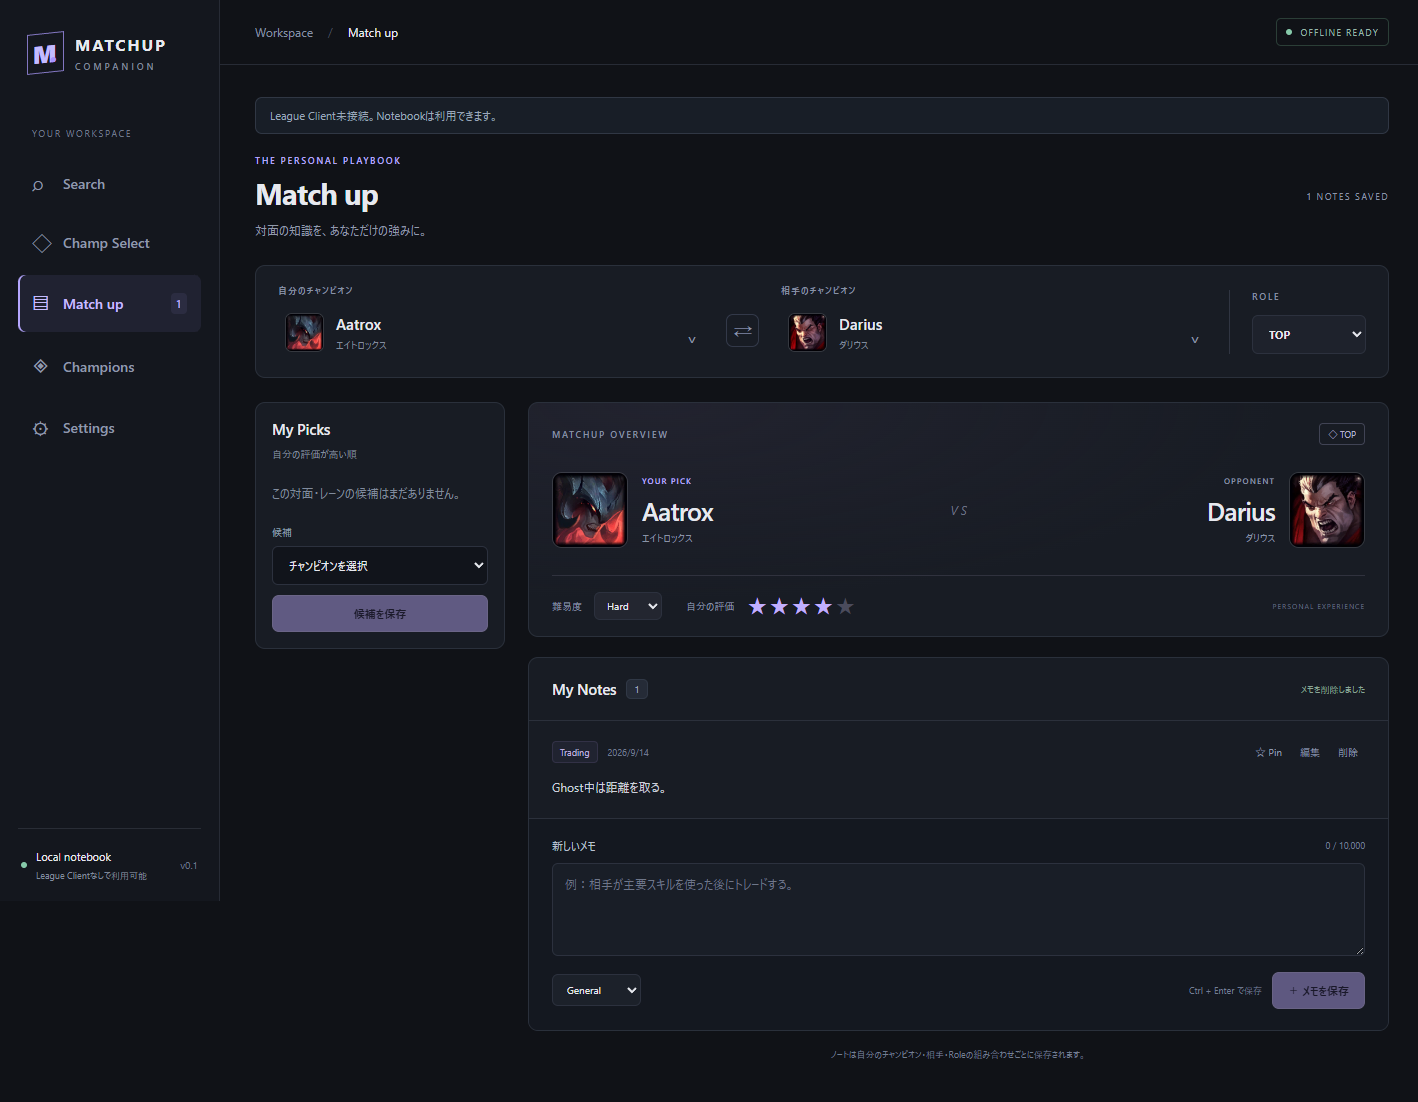
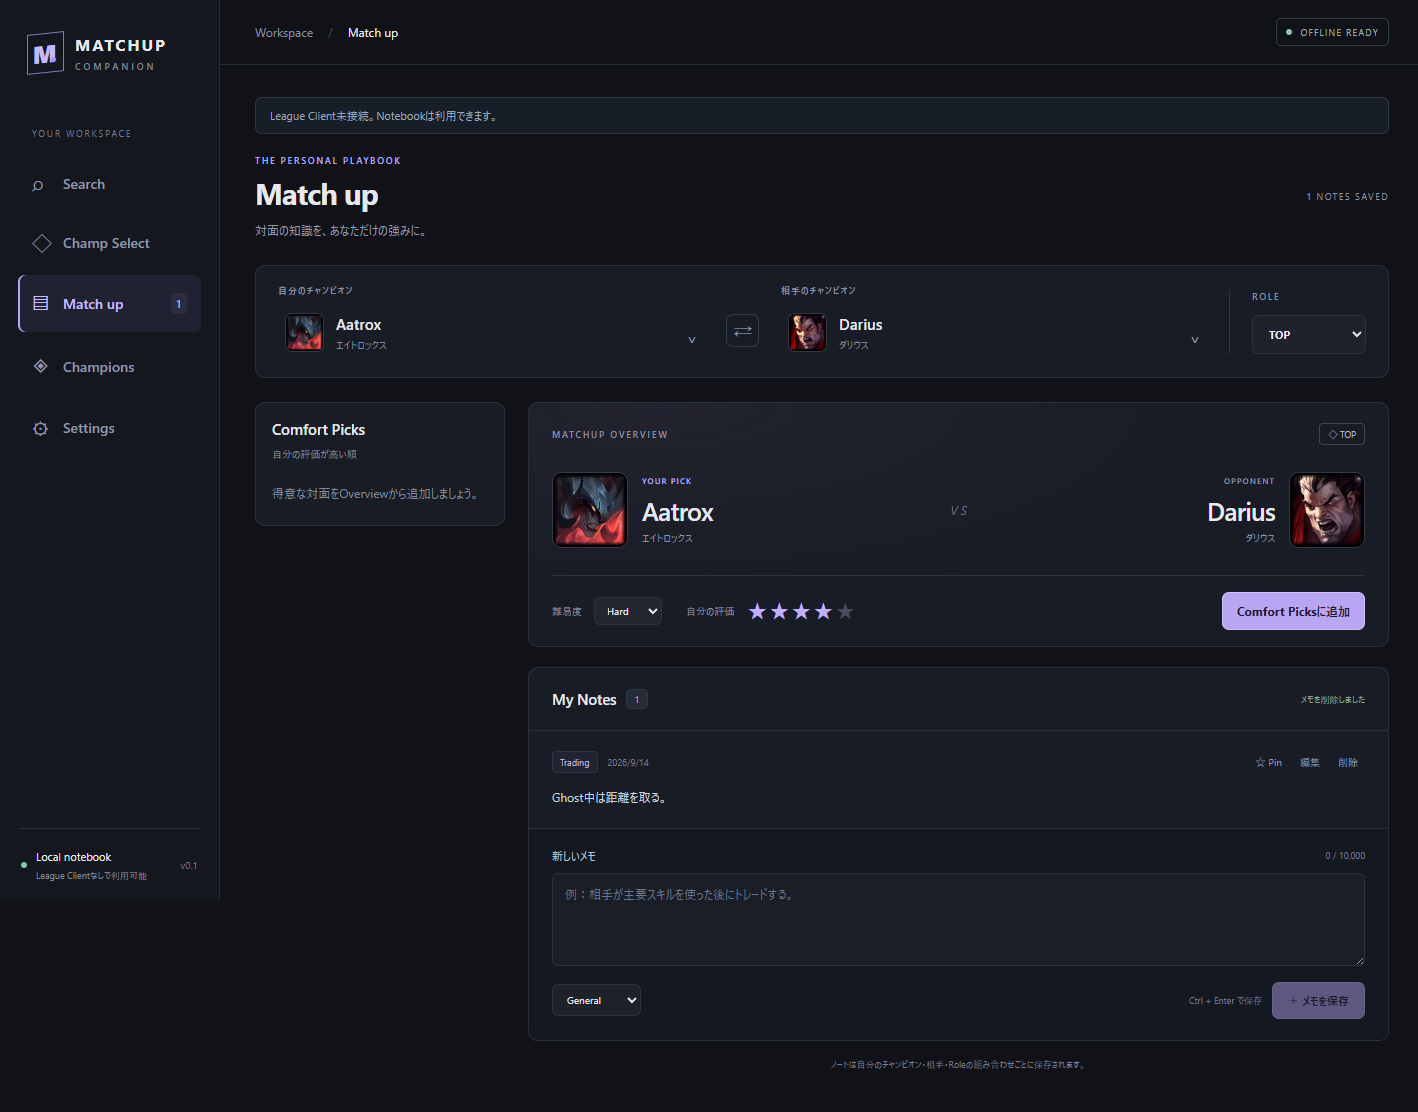
feat: add comfort picks from matchup overview

diff --git a/src/renderer/src/MyPicks.tsx b/src/renderer/src/MyPicks.tsx
@@ -1,11 +1,10 @@
 import { useEffect, useState } from 'react'
-import type { Champion, MatchupKey, MyPick, PoolEntry, Result, Role } from '../../shared/contracts'
+import type { Champion, MatchupKey, MyPick, Result, Role } from '../../shared/contracts'
 
 export default function MyPicks({
   enemyChampionId,
   role,
   champions,
-  pool,
   onSelect,
   readOnly = false,
   refreshToken,
@@ -13,7 +12,6 @@ export default function MyPicks({
   enemyChampionId: number
   role: Role
   champions: Champion[]
-  pool: PoolEntry[]
   onSelect: (key: MatchupKey) => void
   readOnly?: boolean
   refreshToken?: unknown
@@ -22,12 +20,10 @@ export default function MyPicks({
     [loading, setLoading] = useState(true)
   const [busy, setBusy] = useState(false),
     [error, setError] = useState('')
-  const [selected, setSelected] = useState('')
   useEffect(() => {
     let cancelled = false
     setLoading(true)
     setError('')
-    setSelected('')
     window.notebook
       .listMyPicks({ enemyChampionId, role })
       .then((r) => {
@@ -37,7 +33,7 @@ export default function MyPicks({
         }
       })
       .catch(() => {
-        if (!cancelled) setError('My Picksを読み込めません。')
+        if (!cancelled) setError('Comfort Picksを読み込めません。')
       })
       .finally(() => {
         if (!cancelled) setLoading(false)
@@ -59,15 +55,10 @@ export default function MyPicks({
       setBusy(false)
     }
   }
-  const sorted = [...champions].sort(
-    (a, b) =>
-      Number(pool.some((p) => p.role === role && p.championId === b.id)) -
-      Number(pool.some((p) => p.role === role && p.championId === a.id)),
-  )
   return (
-    <section className="my-picks panel" aria-label="My Picks">
+    <section className="my-picks panel" aria-label="Comfort Picks">
       <div className="section-title">
-        <h2>My Picks</h2>
+        <h2>Comfort Picks</h2>
         <small>自分の評価が高い順</small>
       </div>
       {error && (
@@ -78,7 +69,7 @@ export default function MyPicks({
       {loading ? (
         <p className="empty">読み込み中…</p>
       ) : !picks.length ? (
-        <p className="pool-empty">この対面・レーンの候補はまだありません。</p>
+        <p className="pool-empty">得意な対面をOverviewから追加しましょう。</p>
       ) : (
         <div className="pick-list">
           {picks.map((p) => {
@@ -106,43 +97,6 @@ export default function MyPicks({
             )
           })}
         </div>
-      )}
-      {!readOnly && (
-        <form
-          className="pick-form"
-          onSubmit={(e) => {
-            e.preventDefault()
-            if (selected && !busy)
-              void save(() =>
-                window.notebook.saveMyPick({
-                  myChampionId: Number(selected),
-                  enemyChampionId,
-                  role,
-                }),
-              )
-          }}
-        >
-          <label>
-            候補
-            <select
-              aria-label="My Picksのチャンピオン"
-              value={selected}
-              disabled={busy || loading}
-              onChange={(e) => setSelected(e.target.value)}
-            >
-              <option value="">チャンピオンを選択</option>
-              {sorted.map((c) => (
-                <option value={c.id} key={c.id}>
-                  {pool.some((p) => p.championId === c.id && p.role === role) ? '★ ' : ''}
-                  {c.name} / {c.nameJa}
-                </option>
-              ))}
-            </select>
-          </label>
-          <button className="primary" disabled={!selected || loading || busy}>
-            候補を保存
-          </button>
-        </form>
       )}
     </section>
   )

diff --git a/src/renderer/src/App.tsx b/src/renderer/src/App.tsx
@@ -326,6 +326,20 @@ export default function App() {
       setBusy(false)
     }
   }
+  async function addComfortPick() {
+    if (!ready || busy) return
+    setBusy(true)
+    setError('')
+    try {
+      await unwrap(window.notebook.saveMyPick(key))
+      setSummaries(await unwrap(window.notebook.listMatchups()))
+      setStatus('Comfort Picksに追加しました')
+    } catch (e) {
+      setError((e as Error).message)
+    } finally {
+      setBusy(false)
+    }
+  }
   function edit(note: Note) {
     navigate(() => {
       setEditing(note)
@@ -368,18 +382,8 @@ export default function App() {
         ) : activeNotes.length === 0 ? (
           <div className="notes-empty">
             <div>✎</div>
-            <h3>
-              {page === 'champions'
-                ? 'このチャンピオンの知識を記録しよう。'
-                : 'この対面の、最初の気づきを。'}
-            </h3>
-            <p>
-              {page === 'champions'
-                ? 'コンボ、スキルの使い方、ビルド、得意な時間帯。'
-                : 'レーン戦のコツ、トレードのタイミング、気をつけたいスキル。'}
-              <br />
-              次の試合で思い出したいことを書いてみよう。
-            </p>
+            <h3>メモを追加しよう！</h3>
+            <p>下の入力欄から、メモを追加していこう！</p>
           </div>
         ) : (
           activeNotes.map((note) => (
@@ -667,7 +671,6 @@ export default function App() {
               key={`${lcu.status}-${lcu.sessionId}`}
               state={lcu}
               champions={champions}
-              pool={pool}
               onOpen={choose}
             />
           ) : page === 'settings' ? (
@@ -858,7 +861,6 @@ export default function App() {
                     enemyChampionId={key.enemyChampionId}
                     role={key.role}
                     champions={champions}
-                    pool={pool}
                     refreshToken={summaries}
                     onSelect={choose}
                   />
@@ -946,7 +948,13 @@ export default function App() {
                             ))}
                           </div>
                         </div>
-                        <span className="personal-label">PERSONAL EXPERIENCE</span>
+                        <button
+                          className="primary comfort-pick-add"
+                          disabled={!ready || busy}
+                          onClick={() => void addComfortPick()}
+                        >
+                          Comfort Picksに追加
+                        </button>
                       </div>
                     </div>
                   )}

diff --git a/tests/phase23.e2e.ts b/tests/phase23.e2e.ts
@@ -32,14 +32,23 @@ test('Phase 2 knowledge flows into a read-only live Champ Select session', async
       'aria-pressed',
       'true',
     )
-    await page.getByLabel('My Picksのチャンピオン').selectOption('86')
+    await page.getByRole('button', { name: '自分のチャンピオンを選択' }).click()
+    await page.getByLabel('自分のチャンピオンを検索').fill('Garen')
+    await page.locator('.picker-results').getByRole('button', { name: /Garen/ }).click()
+    await expect(page.getByText('メモを追加しよう！')).toBeVisible()
+    await expect(page.locator('.matchup-picks select')).toHaveCount(0)
     await expect(page.getByLabel('My Picksの優先順位')).toHaveCount(0)
     await expect(page.getByLabel('My Picksの自信度')).toHaveCount(0)
-    await page.getByRole('button', { name: '候補を保存', exact: true }).click()
+    await page.getByRole('button', { name: 'Comfort Picksに追加', exact: true }).click()
     await expect(page.locator('.pick-row')).toContainText('Garen')
     await expect(page.locator('.pick-row')).toContainText('未評価')
-    await page.getByLabel('My Picksのチャンピオン').selectOption('266')
-    await page.getByRole('button', { name: '候補を保存', exact: true }).click()
+    await page.getByRole('button', { name: '自分のチャンピオンを選択' }).click()
+    await page.getByLabel('自分のチャンピオンを検索').fill('Aatrox')
+    await page
+      .locator('.picker-results')
+      .getByRole('button', { name: /Aatrox/ })
+      .click()
+    await page.getByRole('button', { name: 'Comfort Picksに追加', exact: true }).click()
     await page.getByRole('button', { name: '評価5', exact: true }).click()
     await expect(page.locator('.pick-row').first()).toContainText('Aatrox')
     await expect(page.locator('.pick-row').first()).toContainText('★★★★★')

diff --git a/tests/notebook.e2e.ts b/tests/notebook.e2e.ts
@@ -81,7 +81,7 @@ test('Champions focuses on standalone notes and lists its existing matchup notes
     await expect(page.locator('.note-body')).toHaveText('ダリウス対面のメモ')
     await expect(page.getByText('RECENTLY UPDATED', { exact: true })).toHaveCount(0)
     await expect(
-      page.locator('.matchup-picks').getByRole('heading', { name: 'My Picks' }),
+      page.locator('.matchup-picks').getByRole('heading', { name: 'Comfort Picks' }),
     ).toBeVisible()
     await page.getByRole('button', { name: /Champions/ }).click()
     await page.getByRole('button', { name: 'Aatroxの詳細を開く', exact: true }).click()
@@ -205,7 +205,10 @@ test('offline Electron notebook: CRUD, isolation, validation and restart persist
     await expect(page.locator('.note-body')).toHaveCount(0)
     await page.getByRole('button', { name: '相手のチャンピオンを選択' }).click()
     await page.getByLabel('相手のチャンピオンを検索').fill('Darius')
-    await page.locator('.picker-results').getByRole('button', { name: /Darius/ }).click()
+    await page
+      .locator('.picker-results')
+      .getByRole('button', { name: /Darius/ })
+      .click()
     await expect(page.locator('.note-body')).toHaveText('Ghost中は距離を取る。')
     expect(
       await page

diff --git a/src/renderer/src/ChampSelect.tsx b/src/renderer/src/ChampSelect.tsx
@@ -6,7 +6,6 @@ import {
   type MatchupKey,
   type Matchup,
   type Note,
-  type PoolEntry,
   type Role,
 } from '../../shared/contracts'
 import MyPicks from './MyPicks'
@@ -14,12 +13,10 @@ import MyPicks from './MyPicks'
 export default function ChampSelect({
   state,
   champions,
-  pool,
   onOpen,
 }: {
   state: LcuState
   champions: Champion[]
-  pool: PoolEntry[]
   onOpen: (key: MatchupKey) => void
 }) {
   const [enemy, setEnemy] = useState<number | null>(null),
@@ -148,7 +145,6 @@ export default function ChampSelect({
           enemyChampionId={currentEnemy}
           role={role}
           champions={champions}
-          pool={pool}
           readOnly
           onSelect={(key) => setManualOwn(key.myChampionId)}
         />

diff --git a/src/renderer/src/styles.css b/src/renderer/src/styles.css
@@ -1471,3 +1471,9 @@ h1 {
 .matchup-picks .pick-form label:first-child {
   min-width: 0;
 }
+
+.comfort-pick-add {
+  margin-left: auto;
+  padding: 10px 14px;
+  font-size: 12px;
+}
